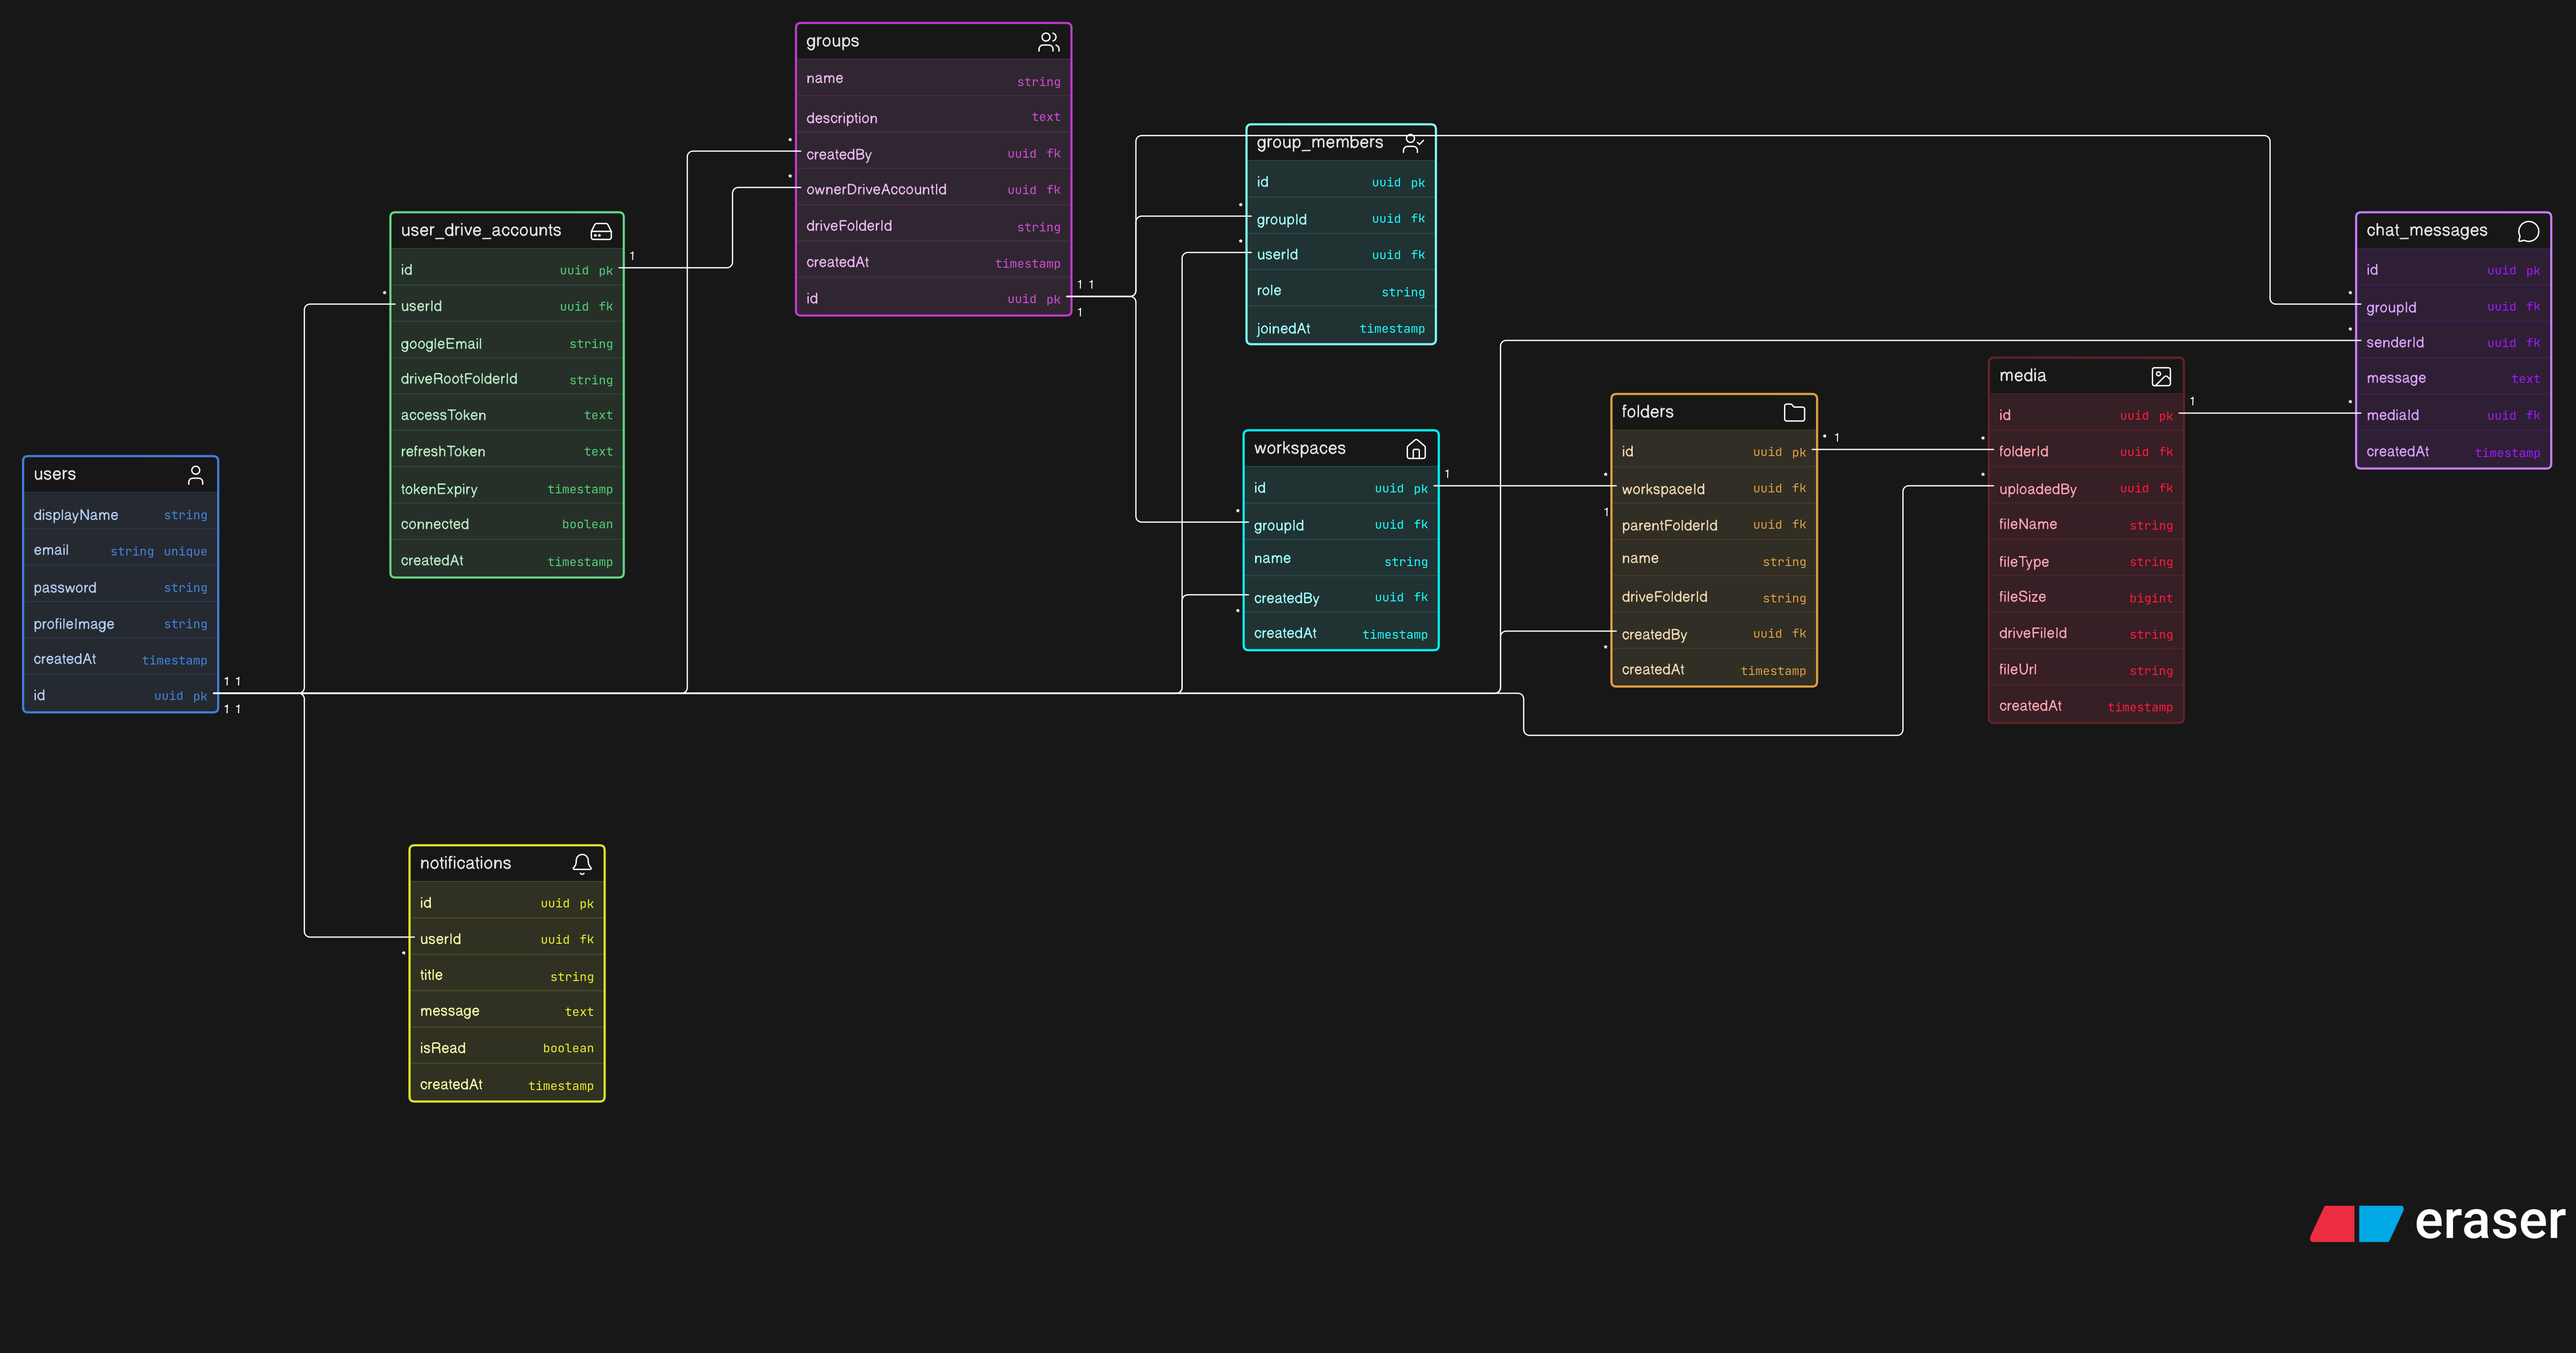
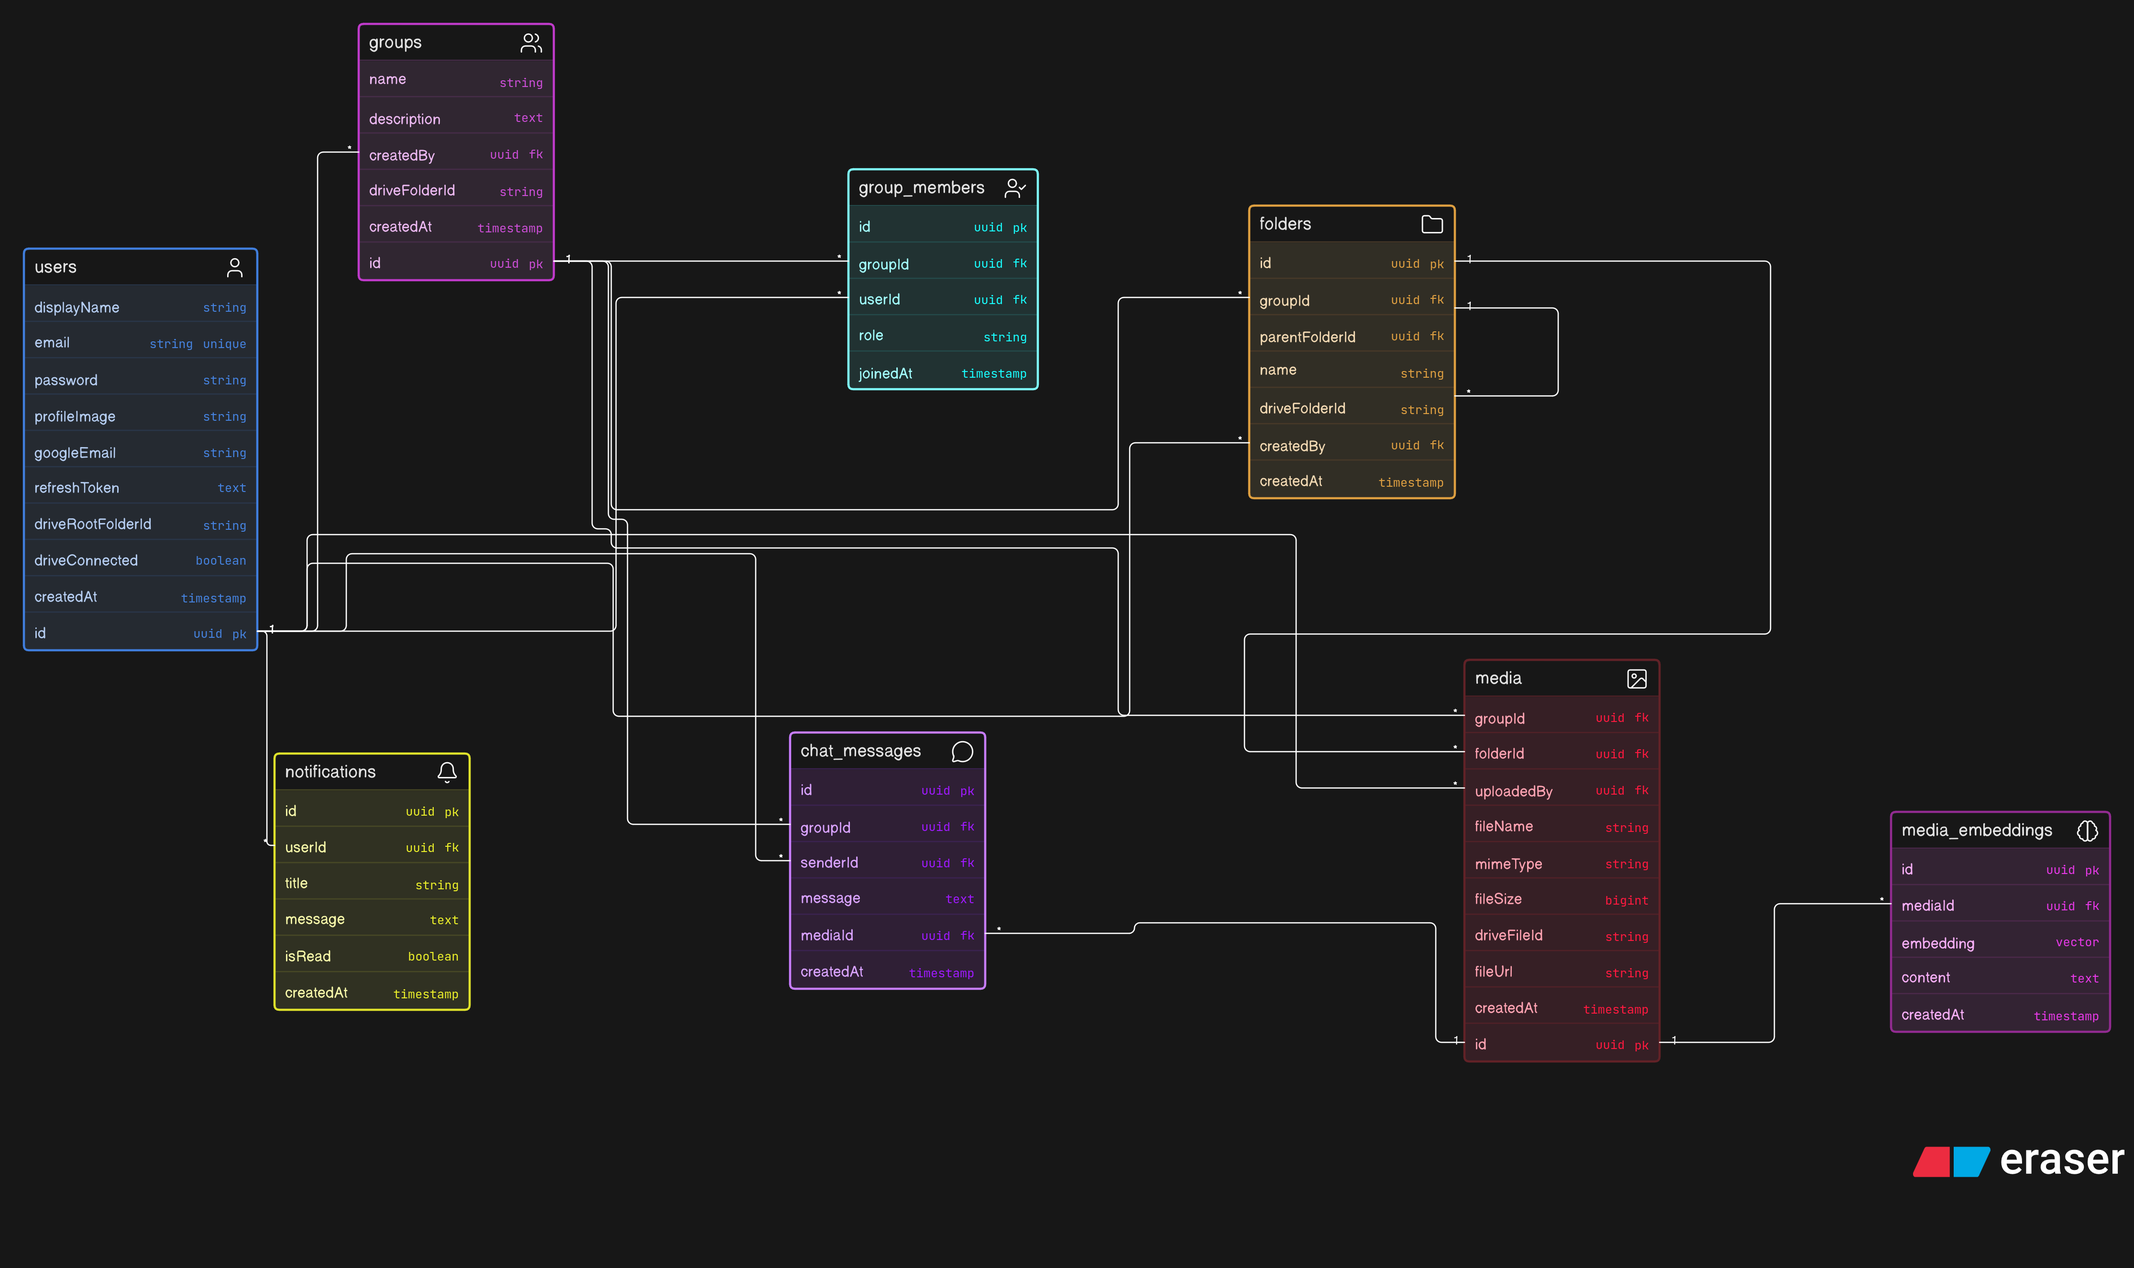
change structure to fit ai

diff --git a/snaply-backend/src/main/java/com/danny/snaply_backend/entity/GroupMembers.java b/snaply-backend/src/main/java/com/danny/snaply_backend/entity/GroupMembers.java
@@ -1,0 +1,54 @@
+package com.danny.snaply_backend.entity;
+
+
+import java.time.LocalDateTime;
+
+import jakarta.persistence.Column;
+import jakarta.persistence.Entity;
+import jakarta.persistence.EnumType;
+import jakarta.persistence.Enumerated;
+import jakarta.persistence.EnumeratedValue;
+import jakarta.persistence.GeneratedValue;
+import jakarta.persistence.Id;
+import jakarta.persistence.JoinColumn;
+import jakarta.persistence.ManyToOne;
+import jakarta.persistence.Table;
+import lombok.AllArgsConstructor;
+import lombok.Builder;
+import lombok.Data;
+import lombok.NoArgsConstructor;
+
+@Entity
+@Table(name = "group_members")
+@NoArgsConstructor
+@AllArgsConstructor
+@Data
+@Builder
+public class GroupMembers {
+    
+    @Id
+    @GeneratedValue(strategy = jakarta.persistence.GenerationType.IDENTITY)
+    private Long id;
+
+    @Enumerated(EnumType.STRING)
+    private GroupRole role;
+
+    @ManyToOne(fetch = jakarta.persistence.FetchType.LAZY)
+    @JoinColumn(name = "group_id", nullable = false)
+    private Group group;
+
+    @ManyToOne(fetch = jakarta.persistence.FetchType.LAZY)
+    @JoinColumn(name = "user_id", nullable = false)
+    private User user;
+
+    @Column(name = "joined_at", nullable = false)
+    private LocalDateTime joinedAt;
+
+    @Column(name = "is_accepted", nullable = false)
+    @Builder.Default
+    private Boolean isAccepted= false;
+
+    public void joinTime(){
+        this.joinedAt = LocalDateTime.now();
+    }
+}

diff --git a/snaply-backend/src/main/java/com/danny/snaply_backend/entity/User.java b/snaply-backend/src/main/java/com/danny/snaply_backend/entity/User.java
@@ -32,16 +32,32 @@ public class User {
     @Column(name = "profile_picture")
     private String profilePicture;
 
+    @Column(name = "google_email", unique = true)
+    private String googleEmail;
+
+    @Column(name = "refresh_token")
+    private String refreshToken;
+
+    @Column(name = "drive_root_folder_id")
+    private String driveRootFolderId;
+
+    @Column(name = "is_drive_connected")
+    @Builder.Default
+    private boolean isDriveConnected = false;
+
     @Enumerated(EnumType.STRING)
     @Column(nullable = false)
     @Builder.Default
     private Role role = Role.USER;
 
     @OneToMany(mappedBy = "user", cascade = CascadeType.ALL, fetch = FetchType.LAZY, orphanRemoval = true)
-    private List<UserDriveAccount> userDriveAccount = new ArrayList<>();
+    private List<Group> groups = new ArrayList<>();
+
+    @OneToMany(mappedBy = "user",cascade = CascadeType.ALL,fetch = FetchType.LAZY)
+    private List<GroupMembers> groupMemberships = new ArrayList<>();
 
     @OneToMany(mappedBy = "user", cascade = CascadeType.ALL, fetch = FetchType.LAZY, orphanRemoval = true)
-    private List<Group> groups = new ArrayList<>();
+    private List<Notification> notifications = new ArrayList<>();
 
     @Builder.Default
     private boolean enabled = true;

diff --git a/snaply-backend/src/main/java/com/danny/snaply_backend/entity/Notification.java b/snaply-backend/src/main/java/com/danny/snaply_backend/entity/Notification.java
@@ -1,0 +1,33 @@
+package com.danny.snaply_backend.entity;
+
+import java.time.LocalDateTime;
+
+import jakarta.persistence.GeneratedValue;
+import jakarta.persistence.GenerationType;
+import jakarta.persistence.Id;
+import jakarta.persistence.JoinColumn;
+import jakarta.persistence.ManyToOne;
+
+public class Notification {
+    
+    @Id
+    @GeneratedValue(strategy = GenerationType.IDENTITY)
+    private Long id;
+
+    private String title;
+
+    private String message;
+
+    private boolean isRead;
+
+    @ManyToOne(fetch = jakarta.persistence.FetchType.LAZY)
+    @JoinColumn(name = "user_id", nullable = false)
+    private User user;
+
+    private LocalDateTime createdAt;
+
+    public Notification() {
+        this.createdAt = LocalDateTime.now();
+        this.isRead = false;
+    }
+}

diff --git a/snaply-backend/src/main/java/com/danny/snaply_backend/entity/Group.java b/snaply-backend/src/main/java/com/danny/snaply_backend/entity/Group.java
@@ -40,11 +40,7 @@ public class Group {
     private LocalDateTime createdAt;
 
     @ManyToOne(fetch = jakarta.persistence.FetchType.LAZY)
-    @JoinColumn(name = "owner_drive_account_id", nullable = false)
-    private UserDriveAccount ownerDriveAccount;
-
-    @ManyToOne(fetch = jakarta.persistence.FetchType.LAZY)
-    @JoinColumn(name = "user_id", nullable = false)
+    @JoinColumn(name = "group_created_by", nullable = false)
     private User user;
     
     public void createTime(){

diff --git a/snaply-backend/src/main/java/com/danny/snaply_backend/entity/GroupRole.java b/snaply-backend/src/main/java/com/danny/snaply_backend/entity/GroupRole.java
@@ -1,0 +1,8 @@
+package com.danny.snaply_backend.entity;
+
+public enum GroupRole {
+    OWNER,
+    ADMIN,
+    EDITOR,
+    VIEWER
+}
